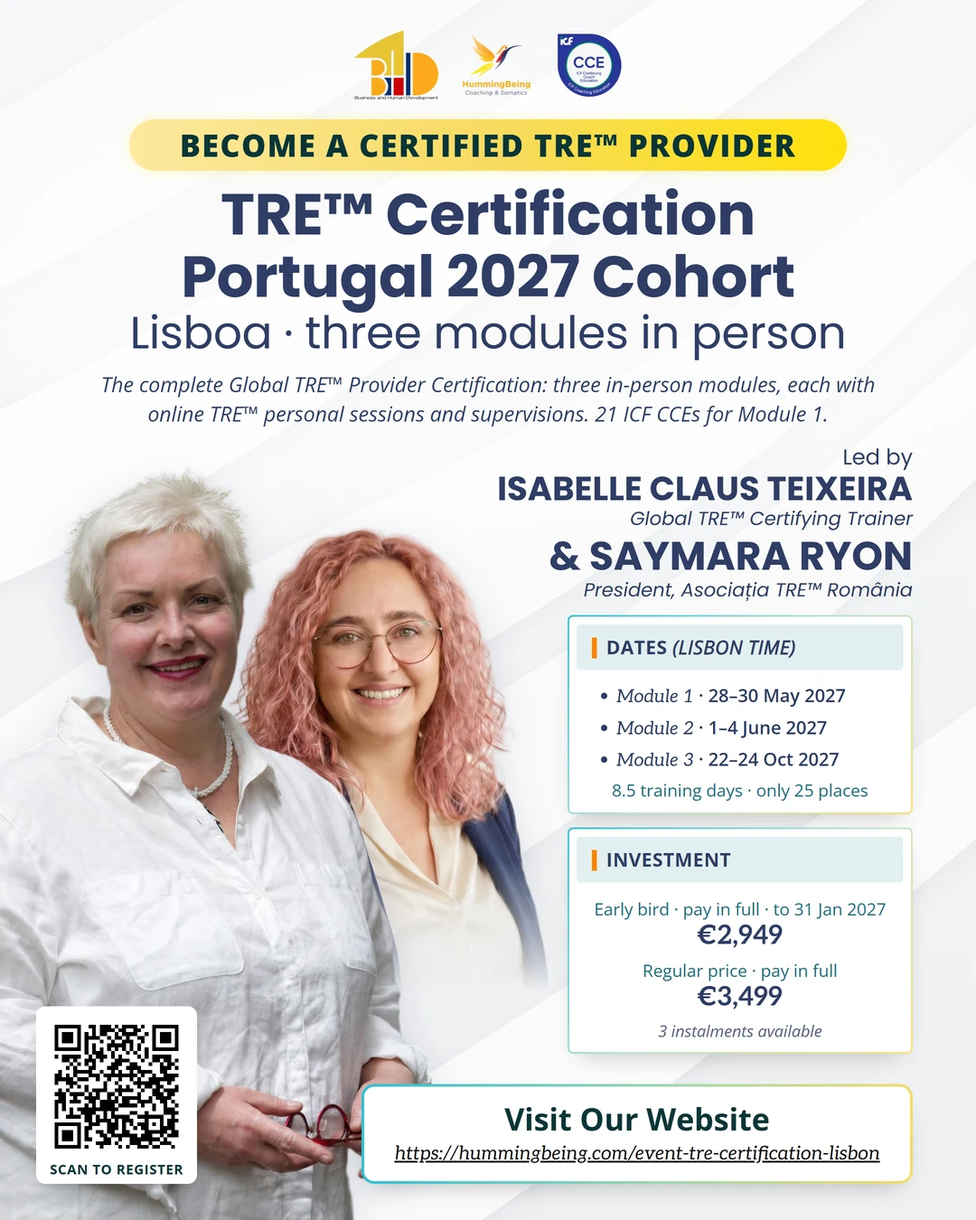
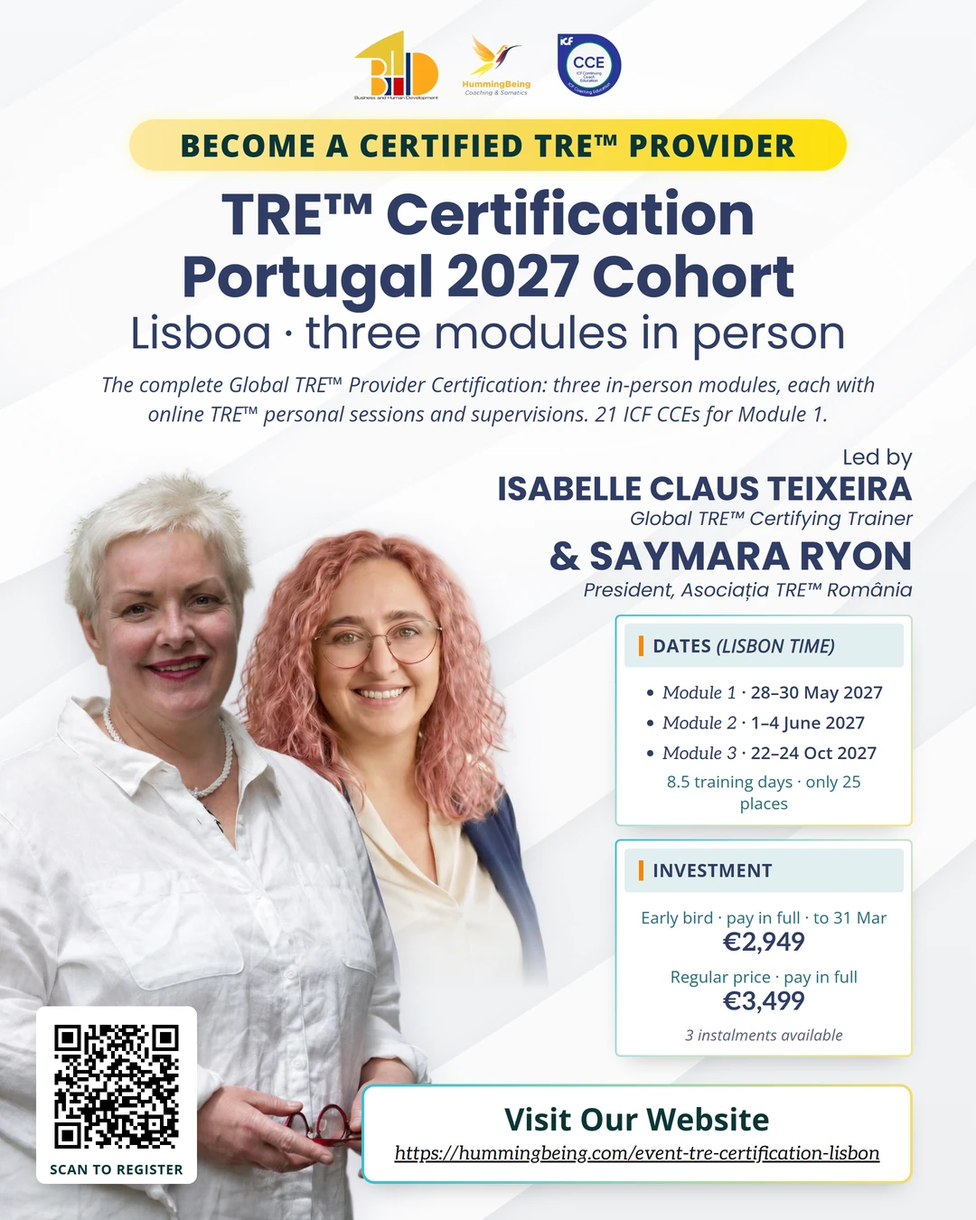
Lisbon full certification: early bird until 31 March 2027 (aligned with Module 1)
Isabelle, 4 Nov: align the early-bird deadline for Module 1 and the full
certification in Portugal to 31 March 2027. Module 1 already said 31 March;
the full-certification page, its event cards (events, home), llms.txt,
JSON-LD validThrough, poster and 16:9 card now say 31 March too.
Singapore 2027 cohort (31 Jan) unchanged. Image cache-busters ?v=2.

Changed region(s): [[0.5806, 0.4978, 0.9472, 0.8711]]

diff --git a/event-tre-certification-lisbon.html b/event-tre-certification-lisbon.html
@@ -28,7 +28,7 @@ j=d.createElement(s),dl=l!="dataLayer"?"&l="+l:"";j.async=true;j.src=
   <meta property="og:type" content="website" />
   <meta property="og:title" content="TRE&#8482; Certification Lisboa &#8212; Portugal 2027 Cohort | HummingBeing" />
   <meta property="og:description" content="Full TRE&#8482; certification in Lisboa, Portugal: Modules 1&#8211;3 (May, June and October 2027) with online sessions and 21 ICF CCEs for Module 1. Early bird &#8364;2,949." />
-  <meta property="og:image" content="https://hummingbeing.com/images/event-lisbon-certification.webp?v=1" />
+  <meta property="og:image" content="https://hummingbeing.com/images/event-lisbon-certification.webp?v=2" />
   <meta property="og:url" content="https://hummingbeing.com/event-tre-certification-lisbon" />
   <meta name="twitter:card" content="summary_large_image" />
   <script type="application/ld+json">
@@ -36,7 +36,7 @@ j=d.createElement(s),dl=l!="dataLayer"?"&l="+l:"";j.async=true;j.src=
     "@context": "https://schema.org",
     "@type": "EducationEvent",
     "name": "TRE™ Certification — Portugal 2027 Cohort (Lisboa)",
-    "description": "The complete Global TRE™ Provider Certification in Lisboa, Portugal: Module 1 (28-30 May 2027, plus 4 online personal sessions), Module 2 (1-4 June 2027, plus 4 online individual supervisions) and Module 3 (22-24 October 2027, plus 4 online individual supervisions). 21 ICF CCEs for Module 1. Led by Isabelle Claus Teixeira, Global TRE™ Certifying Trainer, with an assisting provider. Limited to 25 participants, in English. Early bird 2,949 EUR paid in full until 31 January 2027 (2,999 EUR in three instalments); regular 3,499 EUR (3,549 EUR in three instalments). Credit card only; card charges are added on top.",
+    "description": "The complete Global TRE™ Provider Certification in Lisboa, Portugal: Module 1 (28-30 May 2027, plus 4 online personal sessions), Module 2 (1-4 June 2027, plus 4 online individual supervisions) and Module 3 (22-24 October 2027, plus 4 online individual supervisions). 21 ICF CCEs for Module 1. Led by Isabelle Claus Teixeira, Global TRE™ Certifying Trainer, with an assisting provider. Limited to 25 participants, in English. Early bird 2,949 EUR paid in full until 31 March 2027 (2,999 EUR in three instalments); regular 3,499 EUR (3,549 EUR in three instalments). Credit card only; card charges are added on top.",
     "startDate": "2027-05-28T10:00:00+01:00",
     "endDate": "2027-10-24T18:00:00+01:00",
     "eventStatus": "https://schema.org/EventScheduled",
@@ -51,8 +51,8 @@ j=d.createElement(s),dl=l!="dataLayer"?"&l="+l:"";j.async=true;j.src=
     },
     "organizer": { "@type": "Person", "name": "Isabelle Claus Teixeira", "url": "https://hummingbeing.com/isabelle" },
     "offers": [
-      { "@type": "Offer", "name": "Early bird, paid in full (until 31 January 2027)", "price": "2949", "priceCurrency": "EUR", "availability": "https://schema.org/InStock", "validThrough": "2027-01-31T23:59:00+00:00", "url": "https://hummingbeing.com/event-tre-certification-lisbon" },
-      { "@type": "Offer", "name": "Early bird, three instalments (739 + 1,400 + 860 EUR)", "price": "2999", "priceCurrency": "EUR", "availability": "https://schema.org/InStock", "validThrough": "2027-01-31T23:59:00+00:00", "url": "https://hummingbeing.com/event-tre-certification-lisbon" },
+      { "@type": "Offer", "name": "Early bird, paid in full (until 31 March 2027)", "price": "2949", "priceCurrency": "EUR", "availability": "https://schema.org/InStock", "validThrough": "2027-03-31T23:59:00+01:00", "url": "https://hummingbeing.com/event-tre-certification-lisbon" },
+      { "@type": "Offer", "name": "Early bird, three instalments (739 + 1,400 + 860 EUR)", "price": "2999", "priceCurrency": "EUR", "availability": "https://schema.org/InStock", "validThrough": "2027-03-31T23:59:00+01:00", "url": "https://hummingbeing.com/event-tre-certification-lisbon" },
       { "@type": "Offer", "name": "Regular price, paid in full", "price": "3499", "priceCurrency": "EUR", "availability": "https://schema.org/InStock", "url": "https://hummingbeing.com/event-tre-certification-lisbon" },
       { "@type": "Offer", "name": "Regular price, three instalments (799 + 1,700 + 1,050 EUR)", "price": "3549", "priceCurrency": "EUR", "availability": "https://schema.org/InStock", "url": "https://hummingbeing.com/event-tre-certification-lisbon" }
     ]
@@ -246,13 +246,13 @@ height="0" width="0" style="display:none;visibility:hidden"></iframe></noscript>
 </nav>
 <!-- HERO -->
 <section class="ce-hero">
-  <div class="ce-bg" style="background-image:url('images/event-lisbon-certification.webp?v=1')"></div>
+  <div class="ce-bg" style="background-image:url('images/event-lisbon-certification.webp?v=2')"></div>
   <div class="ce-hero-inner">
     <div>
       <p class="ce-crumbs"><a href="/events">Events</a> &rsaquo; Certification &rsaquo; Lisboa 2027</p>
       <div class="ce-badges"><span class="ce-badge">Lisboa, Portugal</span><span class="ce-badge cat">Certification</span><span class="ce-badge">2027 Cohort</span><span class="ce-badge">In English</span><span class="ce-badge">Limited to 25 places</span></div>
       <h1>TRE&#8482; Certification <em>&mdash; Lisboa</em></h1>
-      <p class="ce-lead">The complete Global TRE&#8482; Provider Certification in Lisboa, Portugal: three in-person modules from May to October 2027, each with online TRE&#8482; personal sessions or supervisions, and 21 ICF CCEs for Module 1. Led by Isabelle Claus Teixeira, Global TRE&#8482; Certifying Trainer, with an assisting provider. Early bird &#8364;2,949 until 31 January 2027.</p>
+      <p class="ce-lead">The complete Global TRE&#8482; Provider Certification in Lisboa, Portugal: three in-person modules from May to October 2027, each with online TRE&#8482; personal sessions or supervisions, and 21 ICF CCEs for Module 1. Led by Isabelle Claus Teixeira, Global TRE&#8482; Certifying Trainer, with an assisting provider. Early bird &#8364;2,949 until 31 March 2027.</p>
       <div class="ce-hero-actions">
         <a href="#reserve" class="btn btn-primary">Reserve your place &rarr;</a>
         <a href="#programme" class="btn btn-outline">See the three modules</a>
@@ -267,7 +267,7 @@ height="0" width="0" style="display:none;visibility:hidden"></iframe></noscript>
     <div class="ce-fact"><i class="fa-regular fa-calendar"></i><div><b>Dates</b><span>Modules 1&#8211;3 &middot; May&#8211;Oct 2027<small>28&#8211;30 May &middot; 1&#8211;4 Jun &middot; 22&#8211;24 Oct</small></span></div></div>
     <div class="ce-fact"><i class="fa-solid fa-location-dot"></i><div><b>Where</b><span>Lisboa, Portugal &middot; in person<small>plus online sessions and supervisions</small></span></div></div>
     <div class="ce-fact"><i class="fa-solid fa-award"></i><div><b>Credits</b><span>21 ICF CCEs for Module 1<small>16 Resource Development + 5 Core Competencies</small></span></div></div>
-    <div class="ce-fact"><i class="fa-solid fa-tag"></i><div><b>Investment</b><span>&#8364;2,949 early bird<small>paid in full by 31 Jan 2027 &middot; regular &#8364;3,499</small></span></div></div>
+    <div class="ce-fact"><i class="fa-solid fa-tag"></i><div><b>Investment</b><span>&#8364;2,949 early bird<small>paid in full by 31 Mar 2027 &middot; regular &#8364;3,499</small></span></div></div>
   </div>
 </div>
 
@@ -275,7 +275,7 @@ height="0" width="0" style="display:none;visibility:hidden"></iframe></noscript>
 <div class="ce-layout">
   <div class="ce-main">
     <figure class="ce-poster ce-poster-portrait" id="ce-poster" role="button" tabindex="0" aria-label="View full-size event poster" style="max-width:100%">
-      <img src="images/event-lisbon-certification-poster.webp?v=1" alt="TRE&#8482; Certification, Portugal 2027 cohort in Lisboa, led by Isabelle Claus Teixeira and Saymara Ryon: Module 1 28&#8211;30 May, Module 2 1&#8211;4 June, Module 3 22&#8211;24 October 2027. Early bird &#8364;2,949 paid in full by 31 January 2027, regular &#8364;3,499; 3 instalments available." width="1080" height="1350" fetchpriority="high" decoding="async" />
+      <img src="images/event-lisbon-certification-poster.webp?v=2" alt="TRE&#8482; Certification, Portugal 2027 cohort in Lisboa, led by Isabelle Claus Teixeira and Saymara Ryon: Module 1 28&#8211;30 May, Module 2 1&#8211;4 June, Module 3 22&#8211;24 October 2027. Early bird &#8364;2,949 paid in full by 31 March 2027, regular &#8364;3,499; 3 instalments available." width="1080" height="1350" fetchpriority="high" decoding="async" />
       <span class="ce-zoom-hint"><i class="fa-solid fa-magnifying-glass-plus"></i> Click to enlarge</span>
     </figure>
     <h2 id="programme">Your certification journey</h2>
@@ -322,13 +322,13 @@ height="0" width="0" style="display:none;visibility:hidden"></iframe></noscript>
     </ul>
 
     <h2>Price and instalments</h2>
-    <p>Early bird <strong>&#8364;2,949</strong> paid in full until 31 January 2027. Regular price <strong>&#8364;3,499</strong> paid in full. Or pay in three instalments:</p>
-    <div class="ce-tblwrap"><table class="ce-table"><thead><tr><th>Instalment</th><th>Due</th><th class="n">Early bird</th><th class="n">Regular</th></tr></thead><tbody><tr><td><b>Instalment 1</b></td><td>On registration (early bird: no later than 1 Apr 2027)</td><td class="n">&#8364;739</td><td class="n">&#8364;799</td></tr><tr><td><b>Instalment 2</b></td><td>Before Module 2: by 15 May 2027 (early bird) or 30 May 2027 (regular)</td><td class="n">&#8364;1,400</td><td class="n">&#8364;1,700</td></tr><tr><td><b>Instalment 3</b></td><td>Before Module 3: by 1 Oct 2027 (early bird) or 15 Oct 2027 (regular)</td><td class="n">&#8364;860</td><td class="n">&#8364;1,050</td></tr><tr class="tot"><td>Total</td><td>Three instalments</td><td class="n">&#8364;2,999</td><td class="n">&#8364;3,549</td></tr></tbody></table></div><p class="ce-payfull"><strong>Or pay in full:</strong> &#8364;2,949 (early bird, until 31 January 2027) / &#8364;3,499 (regular). Card charges still apply.</p>
+    <p>Early bird <strong>&#8364;2,949</strong> paid in full until 31 March 2027. Regular price <strong>&#8364;3,499</strong> paid in full. Or pay in three instalments:</p>
+    <div class="ce-tblwrap"><table class="ce-table"><thead><tr><th>Instalment</th><th>Due</th><th class="n">Early bird</th><th class="n">Regular</th></tr></thead><tbody><tr><td><b>Instalment 1</b></td><td>On registration (early bird: no later than 1 Apr 2027)</td><td class="n">&#8364;739</td><td class="n">&#8364;799</td></tr><tr><td><b>Instalment 2</b></td><td>Before Module 2: by 15 May 2027 (early bird) or 30 May 2027 (regular)</td><td class="n">&#8364;1,400</td><td class="n">&#8364;1,700</td></tr><tr><td><b>Instalment 3</b></td><td>Before Module 3: by 1 Oct 2027 (early bird) or 15 Oct 2027 (regular)</td><td class="n">&#8364;860</td><td class="n">&#8364;1,050</td></tr><tr class="tot"><td>Total</td><td>Three instalments</td><td class="n">&#8364;2,999</td><td class="n">&#8364;3,549</td></tr></tbody></table></div><p class="ce-payfull"><strong>Or pay in full:</strong> &#8364;2,949 (early bird, until 31 March 2027) / &#8364;3,499 (regular). Card charges still apply.</p>
     <div class="ce-note"><strong>Card charges are added on top of every payment.</strong> Payment is by credit card only, through Stripe.</div>
     <h2 id="payment">Payment terms</h2>
     <ul class="ce-list">
       <li><strong>Credit card only</strong>, through Stripe. <strong>Card charges are added on top.</strong></li>
-      <li><strong>Early-bird pricing applies until 31 January 2027.</strong> All prices are in euros (EUR).</li>
+      <li><strong>Early-bird pricing applies until 31 March 2027.</strong> All prices are in euros (EUR).</li>
       <li><strong>Module 1 can be purchased alone</strong> &#8212; <a href="/event-tre-module1-lisbon" style="color:var(--gold-dark);font-weight:700">see TRE&#8482; Module 1 in Lisboa</a> (from &#8364;739).</li>
       <li><strong>All ticket sales are final</strong> &#8212; tickets are non-refundable and non-cancellable.</li>
     </ul>
@@ -367,7 +367,7 @@ height="0" width="0" style="display:none;visibility:hidden"></iframe></noscript>
       <h3>Reserve your place</h3>
       <p class="ce-sub">Portugal 2027 cohort &middot; only 25 places. Choose your option and share your details &#8212; Isabelle will confirm your place and send your payment link.</p>
       <div class="ce-tiers">
-        <div class="ce-tier hl"><div class="tl">Early bird &middot; pay in full<small>until 31 January 2027</small></div><div class="tp">&#8364;2,949</div></div>
+        <div class="ce-tier hl"><div class="tl">Early bird &middot; pay in full<small>until 31 March 2027</small></div><div class="tp">&#8364;2,949</div></div>
         <div class="ce-tier"><div class="tl">Early bird &middot; 3 instalments<small>&#8364;739 + &#8364;1,400 + &#8364;860</small></div><div class="tp">&#8364;2,999</div></div>
         <div class="ce-tier"><div class="tl">Regular &middot; pay in full</div><div class="tp">&#8364;3,499</div></div>
         <div class="ce-tier"><div class="tl">Regular &middot; 3 instalments<small>&#8364;799 + &#8364;1,700 + &#8364;1,050</small></div><div class="tp">&#8364;3,549</div></div>
@@ -400,7 +400,7 @@ height="0" width="0" style="display:none;visibility:hidden"></iframe></noscript>
         <i class="fa-solid fa-circle-check"></i>
         <p>Thank you! Isabelle will be in touch shortly to confirm your place and the payment details.</p>
       </div>
-      <p class="fine"><span class="warn">Only 25 places.</span> All prices in EUR; early-bird pricing applies until 31 January 2027. <strong>Card charges are added on top</strong> (credit card only, via Stripe).</p>
+      <p class="fine"><span class="warn">Only 25 places.</span> All prices in EUR; early-bird pricing applies until 31 March 2027. <strong>Card charges are added on top</strong> (credit card only, via Stripe).</p>
     </div>
     <div class="ce-box ce-qa">
       <h3>Questions?</h3>
@@ -530,7 +530,7 @@ function evtlSubmit(e) {
 <script src="gdpr-consent.js?v=1"></script>
 <div class="ce-lightbox" id="ce-lightbox" aria-hidden="true">
   <button class="ce-lightbox-close" id="ce-lightbox-close" aria-label="Close">&times;</button>
-  <img src="images/event-lisbon-certification-poster.webp?v=1" alt="TRE&#8482; Certification Lisboa 2027 - full event poster" />
+  <img src="images/event-lisbon-certification-poster.webp?v=2" alt="TRE&#8482; Certification Lisboa 2027 - full event poster" />
 </div>
 <script>
 (function(){

diff --git a/events.html b/events.html
@@ -1429,12 +1429,12 @@ height="0" width="0" style="display:none;visibility:hidden"></iframe></noscript>
 
     <!-- 6b. TRE™ Certification Lisboa, Portugal 2027 cohort (28 May - 24 Oct 2027) -->
     <article class="evt-card" data-cat="international certification" data-start="2027-05-28" data-end="2027-10-24">
-      <a href="/event-tre-certification-lisbon" class="evt-card-thumb"><img src="images/event-lisbon-certification.webp?v=1" alt="TRE&#8482; Certification, Portugal 2027 cohort in Lisboa, with Isabelle Claus Teixeira and Saymara Ryon" loading="lazy" decoding="async" width="1920" height="1080" /></a>
+      <a href="/event-tre-certification-lisbon" class="evt-card-thumb"><img src="images/event-lisbon-certification.webp?v=2" alt="TRE&#8482; Certification, Portugal 2027 cohort in Lisboa, with Isabelle Claus Teixeira and Saymara Ryon" loading="lazy" decoding="async" width="1920" height="1080" /></a>
       <div class="evt-card-content">
         <div class="evt-card-tags"><span class="evt-tag loc">Portugal</span><span class="evt-tag">Full certification</span></div>
         <h3>TRE&#8482; Certification &mdash; Lisboa 2027</h3>
         <div class="evt-dates"><span class="evt-date-tag" data-start="2027-05-28" data-end="2027-05-30">M1 &middot; 28&ndash;30 May 2027</span><span class="evt-date-tag" data-start="2027-06-01" data-end="2027-06-04">M2 &middot; 1&ndash;4 Jun 2027</span><span class="evt-date-tag" data-start="2027-10-22" data-end="2027-10-24">M3 &middot; 22&ndash;24 Oct 2027</span></div>
-        <p class="evt-card-desc">The Portugal 2027 cohort of the Global TRE&#8482; Provider Certification: three in-person modules in Lisboa with online personal sessions and supervisions, led by Isabelle Claus Teixeira. 21 ICF CCEs for Module 1. Early bird &#8364;2,949 until 31 January 2027, then &#8364;3,499; instalments available.</p>
+        <p class="evt-card-desc">The Portugal 2027 cohort of the Global TRE&#8482; Provider Certification: three in-person modules in Lisboa with online personal sessions and supervisions, led by Isabelle Claus Teixeira. 21 ICF CCEs for Module 1. Early bird &#8364;2,949 until 31 March 2027, then &#8364;3,499; instalments available.</p>
         <div class="evt-card-actions">
           <a href="/event-tre-certification-lisbon#reserve" class="btn btn-primary">Register</a>
           <a href="/event-tre-certification-lisbon" class="btn evt-btn-2">Details</a>

diff --git a/index.html b/index.html
@@ -897,13 +897,13 @@ height="0" width="0" style="display:none;visibility:hidden"></iframe></noscript>
       </article>
       <article class="home-evt-card hx-rv" data-cat="international certification" style="--d:455ms">
         <a href="/event-tre-certification-lisbon" class="home-evt-thumb" aria-label="TRE™ Certification — Lisboa 2027 - event details">
-          <img src="images/event-lisbon-certification.webp?v=1" alt="TRE&#8482; Certification, Portugal 2027 cohort in Lisboa, with Isabelle Claus Teixeira and Saymara Ryon" loading="lazy" decoding="async" width="1920" height="1080" />
+          <img src="images/event-lisbon-certification.webp?v=2" alt="TRE&#8482; Certification, Portugal 2027 cohort in Lisboa, with Isabelle Claus Teixeira and Saymara Ryon" loading="lazy" decoding="async" width="1920" height="1080" />
         </a>
         <div class="home-evt-body">
           <div class="home-evt-tags"><span class="home-evt-tag loc">Portugal</span><span class="home-evt-tag">Certification</span></div>
           <h3>TRE&#8482; Certification &mdash; Lisboa 2027</h3>
           <div class="evt-dates"><span class="evt-date-tag" data-start="2027-05-28" data-end="2027-05-30">M1 &middot; 28&ndash;30 May 2027</span><span class="evt-date-tag" data-start="2027-06-01" data-end="2027-06-04">M2 &middot; 1&ndash;4 Jun 2027</span><span class="evt-date-tag" data-start="2027-10-22" data-end="2027-10-24">M3 &middot; 22&ndash;24 Oct 2027</span></div>
-          <p class="home-evt-desc">The full Global TRE&#8482; Provider Certification in Lisboa: three in-person modules with online personal sessions and supervisions, led by Isabelle Claus Teixeira. 21 ICF CCEs for Module 1. Early bird &#8364;2,949 until 31 January 2027, then &#8364;3,499; instalments available.</p>
+          <p class="home-evt-desc">The full Global TRE&#8482; Provider Certification in Lisboa: three in-person modules with online personal sessions and supervisions, led by Isabelle Claus Teixeira. 21 ICF CCEs for Module 1. Early bird &#8364;2,949 until 31 March 2027, then &#8364;3,499; instalments available.</p>
           <div class="home-evt-actions">
             <a href="/event-tre-certification-lisbon#reserve" class="btn btn-primary">Register &mdash; from &euro;2,949</a>
             <a href="/event-tre-certification-lisbon" class="btn home-evt-btn2">Details</a>

diff --git a/event-certification-2027-foundational.html b/event-certification-2027-foundational.html
@@ -459,7 +459,7 @@ height="0" width="0" style="display:none;visibility:hidden"></iframe></noscript>
     {t:'Breath as a medicine',s:'Online &middot; 15 Dec 2026 &middot; 7&#8211;9pm SGT',img:'card-event-breath-as-medicine.webp?v=1',h:'/event-breath-as-medicine',end:'2026-12-15'},
     {t:'The Art of Conscious Rest',s:'Online &middot; 24 Jan 2027 &middot; 8&#8211;10pm SGT',img:'card-event-art-of-conscious-rest.webp?v=1',h:'/event-art-of-conscious-rest',end:'2027-01-24'},
     {t:'TRE&#8482; Module 1 &mdash; Lisbon',s:'Lisboa &middot; 28&#8211;30 May 2027',img:'card-event-lisbon-module1.webp?v=1',h:'/event-tre-module1-lisbon',end:'2027-05-30'},
-    {t:'TRE&#8482; Certification &mdash; Lisboa 2027',s:'Lisboa &middot; Modules 1&#8211;3 &middot; May&#8211;Oct 2027',img:'event-lisbon-certification.webp?v=1',h:'/event-tre-certification-lisbon',end:'2027-10-24'},
+    {t:'TRE&#8482; Certification &mdash; Lisboa 2027',s:'Lisboa &middot; Modules 1&#8211;3 &middot; May&#8211;Oct 2027',img:'event-lisbon-certification.webp?v=2',h:'/event-tre-certification-lisbon',end:'2027-10-24'},
     {t:'TRE&#8482; Module 1 ONLINE &mdash; TRE Scotland',s:'Online &middot; 18&#8211;20 June 2027 &middot; UK time',img:'card-event-scotland-online-module1.webp?v=2',h:'/event-tre-module1-online-scotland',end:'2027-06-20'}
   ];
   var now=Date.now(), grid=document.getElementById('ce-more-grid'), empty=document.getElementById('ce-more-empty');

diff --git a/event-certification-2027-growth.html b/event-certification-2027-growth.html
@@ -470,7 +470,7 @@ height="0" width="0" style="display:none;visibility:hidden"></iframe></noscript>
     {t:'Breath as a medicine',s:'Online &middot; 15 Dec 2026 &middot; 7&#8211;9pm SGT',img:'card-event-breath-as-medicine.webp?v=1',h:'/event-breath-as-medicine',end:'2026-12-15'},
     {t:'The Art of Conscious Rest',s:'Online &middot; 24 Jan 2027 &middot; 8&#8211;10pm SGT',img:'card-event-art-of-conscious-rest.webp?v=1',h:'/event-art-of-conscious-rest',end:'2027-01-24'},
     {t:'TRE&#8482; Module 1 &mdash; Lisbon',s:'Lisboa &middot; 28&#8211;30 May 2027',img:'card-event-lisbon-module1.webp?v=1',h:'/event-tre-module1-lisbon',end:'2027-05-30'},
-    {t:'TRE&#8482; Certification &mdash; Lisboa 2027',s:'Lisboa &middot; Modules 1&#8211;3 &middot; May&#8211;Oct 2027',img:'event-lisbon-certification.webp?v=1',h:'/event-tre-certification-lisbon',end:'2027-10-24'},
+    {t:'TRE&#8482; Certification &mdash; Lisboa 2027',s:'Lisboa &middot; Modules 1&#8211;3 &middot; May&#8211;Oct 2027',img:'event-lisbon-certification.webp?v=2',h:'/event-tre-certification-lisbon',end:'2027-10-24'},
     {t:'TRE&#8482; Module 1 ONLINE &mdash; TRE Scotland',s:'Online &middot; 18&#8211;20 June 2027 &middot; UK time',img:'card-event-scotland-online-module1.webp?v=2',h:'/event-tre-module1-online-scotland',end:'2027-06-20'}
   ];
   var now=Date.now(), grid=document.getElementById('ce-more-grid'), empty=document.getElementById('ce-more-empty');

diff --git a/event-certification-2027-refresher.html b/event-certification-2027-refresher.html
@@ -529,7 +529,7 @@ height="0" width="0" style="display:none;visibility:hidden"></iframe></noscript>
     {t:'Breath as a medicine',s:'Online &middot; 15 Dec 2026 &middot; 7&#8211;9pm SGT',img:'card-event-breath-as-medicine.webp?v=1',h:'/event-breath-as-medicine',end:'2026-12-15'},
     {t:'The Art of Conscious Rest',s:'Online &middot; 24 Jan 2027 &middot; 8&#8211;10pm SGT',img:'card-event-art-of-conscious-rest.webp?v=1',h:'/event-art-of-conscious-rest',end:'2027-01-24'},
     {t:'TRE&#8482; Module 1 &mdash; Lisbon',s:'Lisboa &middot; 28&#8211;30 May 2027',img:'card-event-lisbon-module1.webp?v=1',h:'/event-tre-module1-lisbon',end:'2027-05-30'},
-    {t:'TRE&#8482; Certification &mdash; Lisboa 2027',s:'Lisboa &middot; Modules 1&#8211;3 &middot; May&#8211;Oct 2027',img:'event-lisbon-certification.webp?v=1',h:'/event-tre-certification-lisbon',end:'2027-10-24'},
+    {t:'TRE&#8482; Certification &mdash; Lisboa 2027',s:'Lisboa &middot; Modules 1&#8211;3 &middot; May&#8211;Oct 2027',img:'event-lisbon-certification.webp?v=2',h:'/event-tre-certification-lisbon',end:'2027-10-24'},
     {t:'TRE&#8482; Module 1 ONLINE &mdash; TRE Scotland',s:'Online &middot; 18&#8211;20 June 2027 &middot; UK time',img:'card-event-scotland-online-module1.webp?v=2',h:'/event-tre-module1-online-scotland',end:'2027-06-20'}
   ];
   var now=Date.now(), grid=document.getElementById('ce-more-grid'), empty=document.getElementById('ce-more-empty');

diff --git a/event-certification-2027.html b/event-certification-2027.html
@@ -517,7 +517,7 @@ height="0" width="0" style="display:none;visibility:hidden"></iframe></noscript>
     {t:'Breath as a medicine',s:'Online &middot; 15 Dec 2026 &middot; 7&#8211;9pm SGT',img:'card-event-breath-as-medicine.webp?v=1',h:'/event-breath-as-medicine',end:'2026-12-15'},
     {t:'The Art of Conscious Rest',s:'Online &middot; 24 Jan 2027 &middot; 8&#8211;10pm SGT',img:'card-event-art-of-conscious-rest.webp?v=1',h:'/event-art-of-conscious-rest',end:'2027-01-24'},
     {t:'TRE&#8482; Module 1 &mdash; Lisbon',s:'Lisboa &middot; 28&#8211;30 May 2027',img:'card-event-lisbon-module1.webp?v=1',h:'/event-tre-module1-lisbon',end:'2027-05-30'},
-    {t:'TRE&#8482; Certification &mdash; Lisboa 2027',s:'Lisboa &middot; Modules 1&#8211;3 &middot; May&#8211;Oct 2027',img:'event-lisbon-certification.webp?v=1',h:'/event-tre-certification-lisbon',end:'2027-10-24'},
+    {t:'TRE&#8482; Certification &mdash; Lisboa 2027',s:'Lisboa &middot; Modules 1&#8211;3 &middot; May&#8211;Oct 2027',img:'event-lisbon-certification.webp?v=2',h:'/event-tre-certification-lisbon',end:'2027-10-24'},
     {t:'TRE&#8482; Module 1 ONLINE &mdash; TRE Scotland',s:'Online &middot; 18&#8211;20 June 2027 &middot; UK time',img:'card-event-scotland-online-module1.webp?v=2',h:'/event-tre-module1-online-scotland',end:'2027-06-20'}
   ];
   var now=Date.now(), grid=document.getElementById('ce-more-grid'), empty=document.getElementById('ce-more-empty');

diff --git a/event-tre-module1-lisbon.html b/event-tre-module1-lisbon.html
@@ -376,7 +376,7 @@ height="0" width="0" style="display:none;visibility:hidden"></iframe></noscript>
     <h2>Other upcoming events</h2>
     <div class="ce-rel-grid">
       <a class="ce-rel" href="/event-tre-certification-lisbon">
-        <img src="images/event-lisbon-certification.webp?v=1" alt="TRE&#8482; Certification, Portugal 2027 cohort, Lisboa" loading="lazy" decoding="async" />
+        <img src="images/event-lisbon-certification.webp?v=2" alt="TRE&#8482; Certification, Portugal 2027 cohort, Lisboa" loading="lazy" decoding="async" />
         <div class="b"><strong>TRE&#8482; Certification &mdash; Lisboa 2027</strong><span>Lisboa &middot; Modules 1&#8211;3 &middot; May&#8211;Oct 2027</span></div>
       </a>
       <a class="ce-rel" href="/event-breath-as-medicine">
